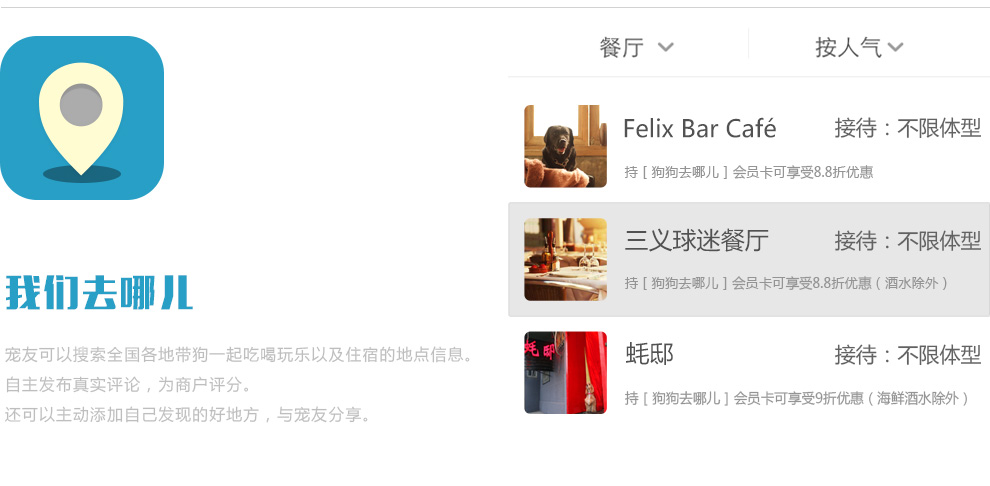
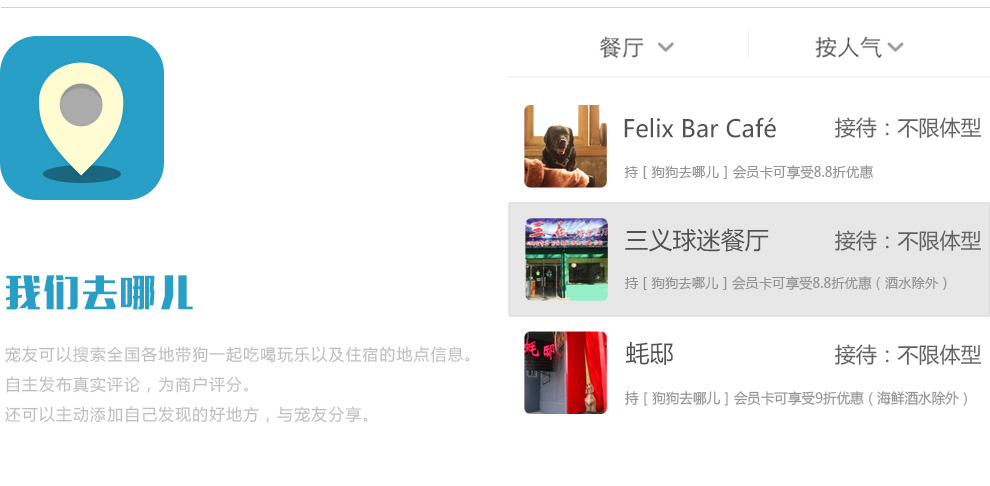
最后修改

Changed region(s): [[0.5152, 0.4321, 0.6364, 0.6173]]

diff --git a/topic.html b/topic.html
@@ -18,8 +18,8 @@
                 <li><a href="/topic.html" class="selected">专题</a></li>
                 <li><a href="/download.html">APP下载</a></li>
                 <li><a href="/vip.html">会员卡</a></li>
-                <li><a href="/shop/">电子项圈</a></li>
-                <li class="last"><a href="/forum/">论坛</a></li>
+                <li class="J_shop"><a href="/shop/">电子项圈</a></li>
+                <li class="last"><a href="/forum/forum.php">论坛</a></li>
             </ul>
             <div id="J_user" class="mod_toolbar_info hide">
                 <span id="J_userName"></span>
@@ -40,65 +40,63 @@
                     <ul class="bjqs t_cnt_list">
                         <li>
                             <div class="t_cnt_item">
-                                <a target="_blank" href="/shop/article_cat.php?id=12" class="t_cnt_img"><img src="imgs/topic/t1.jpg" alt="娱乐" /></a>
+                                <a target="_blank" href="/shop/article_cat.php?id=12" class="t_cnt_img"><img src="imgs/topic/1.png" alt="娱乐" /></a>
                                 <h3 class="t_cnt_tit">娱乐</h3>
-                                <p class="t_cnt_stit">EEE</p>
+                                <p class="t_cnt_stit">Entertainment</p>
                                 <div class="t_cnt_desc">
-                                    Lorem ipsum dolor sit amet,
-                                    consectetur adipisicing elit, sed do
-                                    eiusmod tempor incididunt.
+                                    <p>八卦 恶搞</p>
+                                    <p>以狗狗为主题的娱乐专题</p>
+                                    <p>闲聊时的调味剂</p>
                                 </div>
                             </div>
                             <div class="t_cnt_item">
-                                <a target="_blank" href="/shop/article_cat.php?id=11" class="t_cnt_img"><img src="imgs/topic/t2.jpg" alt="文化" /></a>
+                                <a target="_blank" href="/shop/article_cat.php?id=11" class="t_cnt_img"><img src="imgs/topic/2.png" alt="文化" /></a>
                                 <h3 class="t_cnt_tit">文化</h3>
-                                <p class="t_cnt_stit">EEE</p>
+                                <p class="t_cnt_stit">Culture</p>
                                 <div class="t_cnt_desc">
-                                    Lorem ipsum dolor sit amet,
-                                    consectetur adipisicing elit, sed do
-                                    eiusmod tempor incididunt.
+                                    <p>时代 海外</p>
+                                    <p>了解国内外狗狗最新资讯</p>
+                                    <p>不出国门看天下</p>
                                 </div>
                             </div>
                             <div class="t_cnt_item t_cnt_item_last">
-                                <a target="_blank" href="/shop/article_cat.php?id=13" class="t_cnt_img"><img src="imgs/topic/t3.jpg" alt="科普" /></a>
+                                <a target="_blank" href="/shop/article_cat.php?id=13" class="t_cnt_img"><img src="imgs/topic/3.png" alt="科普" /></a>
                                 <h3 class="t_cnt_tit">科普</h3>
-                                <p class="t_cnt_stit">EEE</p>
+                                <p class="t_cnt_stit">Knowledge</p>
                                 <div class="t_cnt_desc">
-                                    Lorem ipsum dolor sit amet,
-                                    consectetur adipisicing elit, sed do
-                                    eiusmod tempor incididunt.
+                                    <p>训犬 知识</p>
+                                    <p>快速了解与狗的相处之道</p>
+                                    <p>狗狗常识简单易懂</p>
                                 </div>
                             </div>
-                        </li>
-                        <li>
                             <div class="t_cnt_item">
-                                <a target="_blank" href="/shop/article_cat.php?id=14" class="t_cnt_img"><img src="imgs/topic/t4.jpg" alt="旅行" /></a>
+                                <a target="_blank" href="/shop/article_cat.php?id=14" class="t_cnt_img"><img src="imgs/topic/4.png" alt="旅行" /></a>
                                 <h3 class="t_cnt_tit">旅行</h3>
-                                <p class="t_cnt_stit">EEE</p>
+                                <p class="t_cnt_stit">Travel</p>
                                 <div class="t_cnt_desc">
-                                    Lorem ipsum dolor sit amet,
-                                    consectetur adipisicing elit, sed do
-                                    eiusmod tempor incididunt.
+                                    <p>景区 酒店</p>
+                                    <p>带狗体验回归自然的假期</p>
+                                    <p>提供全面出行攻略</p>
                                 </div>
                             </div>
                             <div class="t_cnt_item">
-                                <a target="_blank" href="/shop/article_cat.php?id=15" class="t_cnt_img"><img src="imgs/topic/t5.jpg" alt="餐厅" /></a>
+                                <a target="_blank" href="/shop/article_cat.php?id=15" class="t_cnt_img"><img src="imgs/topic/5.png" alt="餐厅" /></a>
                                 <h3 class="t_cnt_tit">餐厅</h3>
-                                <p class="t_cnt_stit">EEE</p>
+                                <p class="t_cnt_stit">Restaurant</p>
                                 <div class="t_cnt_desc">
-                                    Lorem ipsum dolor sit amet,
-                                    consectetur adipisicing elit, sed do
-                                    eiusmod tempor incididunt.
+                                    <p>吃饭 礼仪</p>
+                                    <p>开启养狗时代的新篇章</p>
+                                    <p>一大波会员折扣来袭</p>
                                 </div>
                             </div>
                             <div class="t_cnt_item t_cnt_item_last">
-                                <a target="_blank" href="/shop/article_cat.php?id=16" class="t_cnt_img"><img src="imgs/topic/t6.jpg" alt="户外" /></a>
+                                <a target="_blank" href="/shop/article_cat.php?id=16" class="t_cnt_img"><img src="imgs/topic/6.png" alt="户外" /></a>
                                 <h3 class="t_cnt_tit">户外</h3>
-                                <p class="t_cnt_stit">EEE</p>
+                                <p class="t_cnt_stit">Outdoor</p>
                                 <div class="t_cnt_desc">
-                                    Lorem ipsum dolor sit amet,
-                                    consectetur adipisicing elit, sed do
-                                    eiusmod tempor incididunt.
+                                    <p>近郊 公园</p>
+                                    <p>周末遛狗线路规划</p>
+                                    <p>组团出发 说走就走</p>
                                 </div>
                             </div>
                         </li>
@@ -123,8 +121,8 @@
                 <li><a href="/topic.html">专题</a></li>
                 <li><a href="/download.html">APP下载</a></li>
                 <li><a href="/vip.html" class="selected">会员卡</a></li>
-                <li><a href="/shop/">电子项圈</a></li>
-                <li><a href="/forum/">论坛</a></li>
+                <li class="J_shop"><a href="/shop/">电子项圈</a></li>
+                <li><a href="/forum/forum.php">论坛</a></li>
             </ul>
             <a class="mod_ft_email" href="mailto:gou_go@163.com"><span class="hide">Email</span></a>
         </div>
@@ -135,7 +133,7 @@
     <script>
         (function(){
             $('#J_slider').bjqs({
-                height      : 465,
+                height      : 1000,
                 width       : 990,
                 animduration: 900,
 //                animtype    :  'slide',

diff --git a/css/style.css b/css/style.css
@@ -67,14 +67,14 @@ a:hover{text-decoration:underline}
     .i_logo{width:440px;height:145px;background-position:-6px -162px; margin: 60px 0 0 10px; float: left; _display: inline;}
     .i_hshare{width:138px;height:54px;background-position:-209px 0; float: right; margin: 4px 15px 100px 0}
     .i_hshare a{width:68px;height:53px; display: inline-block}
-    .i_action{ width: 400px; float: right;}
+    .i_action{ width: 400px; float: right; margin-top: 126px;}
     .i_action_ico1{width:187px;height:72px; display: inline-block; background-position:-10px -5px; -webkit-transition:opactity 0.2s ease-out;}
     .i_action_ico1:hover{ opacity: 0.7;filter:alpha(opacity=70);}
     .i_action_ico2{width:187px;height:72px; display: inline-block; background-position:-10px -77px;-webkit-transition:opactity 0.2s ease-out;}
     .i_action_ico2:hover{ opacity: 0.7;filter:alpha(opacity=70);}
 
 /*banner*/
-.i_banner{ height: 697px;}
+.i_banner{ height: 697px; text-align: center}
 /*slider*/
 .i_banner .bjqs{position:relative;overflow:hidden;}
 .i_banner .bjqs_link{display: block; width: 100%; height: 697px;}
@@ -110,17 +110,20 @@ a:hover{text-decoration:underline}
 /*===== 专题页面 =====*/
 .t_logo{width:100px;height:100px;background-position: -415px -63px; margin: 6px auto;}
 /*专题slider*/
-.t_cnt{margin: 241px 0 189px 0;}
-    .t_cnt_item{ width: 200px; margin: 10px 167px 0 10px; float: left; _display: inline; text-align: center;}
+.t_cnt{margin: 110px 0 90px 0;}
+    .t_cnt_item{ width: 200px; margin: 10px 167px 73px 10px; float: left; _display: inline; text-align: center; /* padding-top: 27px; */}
     .t_cnt_item_last{margin-right: 0}
-    .t_cnt_img{ width: 200px; height: 200px; margin-bottom: 32px; display: block; opacity: 1;  -webkit-transform:rotate(0deg); -webkit-transition:all 0.2s ease-out;}
-    .t_cnt_img:hover{opacity: 0.7;filter:alpha(opacity=70);-webkit-transform:rotate(10deg);}
+    .t_cnt_img{ width: 200px; height: 200px; margin-bottom: 32px; display: block; -webkit-transform:scale(1) translateZ(0); -webkit-transition:all 0.2s ease-out;}
+    .t_cnt_img:hover{-webkit-transform:scale(1.2) translateZ(0);
+
+    }
+    /*.t_cnt_img img{-webkit-transform:translateZ(0); }*/
     .t_cnt_tit{font-size: 21px; font-weight: 700; color: #000;}
-    .t_cnt_stit{color: #888; width: 100%; text-overflow:ellipsis; overflow:hidden; white-space:nowrap; margin: 7px 0 48px 0;}
-    .t_cnt_desc{ color: #888; line-height: 22px; font-size: 16px;}
+    .t_cnt_stit{color: #888; width: 100%; text-overflow:ellipsis; overflow:hidden; white-space:nowrap; margin: 7px 0 29px 0;}
+    .t_cnt_desc{ color: #888; line-height: 33px; font-size: 16px; /* font-weight: 700; */}
 
 /*slider*/
-.t_cnt .bjqs{position:relative;overflow:hidden;}
+.t_cnt .bjqs{position:relative;/* overflow:hidden; */}
 .t_cnt .bjqs-slide{position:absolute; display:none;}
 .t_cnt .bjqs-controls{z-index:9999; position: absolute; top: -143px; left: 50%;}
 .t_cnt .bjqs-controls li a{position:absolute; width:75px;height:75px; line-height: 999em; overflow: hidden;}
@@ -236,3 +239,6 @@ a:hover{text-decoration:underline}
             .a_banner{text-align: center; margin-bottom: 50px;}
             .a_art{line-height: 22px; color: #95a5a6; margin-bottom: 30px;}
             .a_tit{font-size: 30px; text-align: center; color: #000; margin-bottom: 30px;}
+
+            .J_shop{display: none;}
+            .mod_ft_email{display: none;}

diff --git a/download.html b/download.html
@@ -18,7 +18,7 @@
                 <li><a href="/topic.html">专题</a></li>
                 <li><a href="/download.html" class="selected">APP下载</a></li>
                 <li><a href="/vip.html">会员卡</a></li>
-                <li><a href="/shop/">电子项圈</a></li>
+                <li class="J_shop"><a href="/shop/">电子项圈</a></li>
                 <li><a href="/forum/forum.php">论坛</a></li>
             </ul>
             <div id="J_user" class="mod_toolbar_info hide">
@@ -38,7 +38,8 @@
             <div class="d_banner_1"></div>
             <div class="d_banner_2">
                 <div class="grid_c1">
-                    <a class="d_banner_down" href="##"><span class="hide">立即下载</span></a>
+                    <a class="d_banner_down" target="_blank" href="https://itunes.apple.com/cn/app/gou-gou-qu-na-er/id880641122?mt=8
+"><span class="hide">立即下载</span></a>
                     <div class="d_banner_txt">
                         <p>版本：1.0</p>
                         <p>更新日期：2014/6/6</p>
@@ -151,8 +152,8 @@
                 <li><a href="/topic.html">专题</a></li>
                 <li><a href="/download.html">APP下载</a></li>
                 <li><a href="/vip.html" class="selected">会员卡</a></li>
-                <li><a href="/shop/">电子项圈</a></li>
-                <li><a href="/forum/">论坛</a></li>
+                <li class="J_shop"><a href="/shop/">电子项圈</a></li>
+                <li><a href="/forum/forum.php">论坛</a></li>
             </ul>
             <a class="mod_ft_email" href="mailto:gou_go@163.com"><span class="hide">Email</span></a>
         </div>

diff --git a/vip3.html b/vip3.html
@@ -18,8 +18,8 @@
                 <li><a href="/topic.html">专题</a></li>
                 <li><a href="/download.html">APP下载</a></li>
                 <li><a href="/vip.html" class="selected">会员卡</a></li>
-                <li><a href="/shop/">电子项圈</a></li>
-                <li class="last"><a href="/forum/">论坛</a></li>
+                <li class="J_shop"><a href="/shop/">电子项圈</a></li>
+                <li class="last"><a href="/forum/forum.php">论坛</a></li>
             </ul>
             <div id="J_user" class="mod_toolbar_info hide">
                 <span id="J_userName"></span>
@@ -64,7 +64,7 @@
             <b class="v_cnt_hr"></b>
         </div>
         <div class="v_imgs">
-            <img src="imgs/vip/3.jpg" alt=""/>
+            <img src="imgs/vip/6.jpg" alt=""/>
         </div>
     </div>
     <div class="mod_ft">
@@ -75,8 +75,8 @@
                 <li><a href="/topic.html">专题</a></li>
                 <li><a href="/download.html">APP下载</a></li>
                 <li><a href="/vip.html" class="selected">会员卡</a></li>
-                <li><a href="/shop/">电子项圈</a></li>
-                <li><a href="/forum/">论坛</a></li>
+                <li class="J_shop"><a href="/shop/">电子项圈</a></li>
+                <li><a href="/forum/forum.php">论坛</a></li>
             </ul>
             <a class="mod_ft_email" href="mailto:gou_go@163.com"><span class="hide">Email</span></a>
         </div>

diff --git a/vip.html b/vip.html
@@ -18,7 +18,7 @@
                 <li><a href="/topic.html">专题</a></li>
                 <li><a href="/download.html">APP下载</a></li>
                 <li><a href="/vip.html" class="selected">会员卡</a></li>
-                <li><a href="/shop/">电子项圈</a></li>
+                <li class="J_shop"><a href="/shop/">电子项圈</a></li>
                 <li><a href="/forum/forum.php">论坛</a></li>
             </ul>
             <div id="J_user" class="mod_toolbar_info hide">
@@ -49,11 +49,12 @@
         <div class="grid_c1">
             <b class="mod_ft_logo"></b>
             <ul class="mod_ft_list clear">
-                <li><a href="index.html">主页</a></li>
-                <li><a href="forum/forum.php">论坛入口</a></li>
-                <li><a href="download.html">APP下载</a></li>
-                <li><a href="vip.html">会员卡</a></li>
-                <li><a href="/shop/">电子项圈</a></li>
+                <li><a href="index.html">首页</a></li>
+                <li><a href="/topic.html">专题</a></li>
+                <li><a href="/download.html">APP下载</a></li>
+                <li><a href="/vip.html" class="selected">会员卡</a></li>
+                <li class="J_shop"><a href="/shop/">电子项圈</a></li>
+                <li><a href="/forum/forum.php">论坛</a></li>
             </ul>
             <a class="mod_ft_email" href="##"><span class="hide">Email</span></a>
         </div>

diff --git a/vip1.html b/vip1.html
@@ -18,8 +18,8 @@
                 <li><a href="/topic.html">专题</a></li>
                 <li><a href="/download.html">APP下载</a></li>
                 <li><a href="/vip.html" class="selected">会员卡</a></li>
-                <li><a href="/shop/">电子项圈</a></li>
-                <li class="last"><a href="/forum/">论坛</a></li>
+                <li class="J_shop"><a href="/shop/">电子项圈</a></li>
+                <li class="last"><a href="/forum/forum.php">论坛</a></li>
             </ul>
             <div id="J_user" class="mod_toolbar_info hide">
                 <span id="J_userName"></span>
@@ -80,8 +80,8 @@
                 <li><a href="/topic.html">专题</a></li>
                 <li><a href="/download.html">APP下载</a></li>
                 <li><a href="/vip.html" class="selected">会员卡</a></li>
-                <li><a href="/shop/">电子项圈</a></li>
-                <li><a href="/forum/">论坛</a></li>
+                <li class="J_shop"><a href="/shop/">电子项圈</a></li>
+                <li><a href="/forum/forum.php">论坛</a></li>
             </ul>
             <a class="mod_ft_email" href="mailto:gou_go@163.com"><span class="hide">Email</span></a>
         </div>

diff --git a/vip2.html b/vip2.html
@@ -18,8 +18,8 @@
                 <li><a href="/topic.html">专题</a></li>
                 <li><a href="/download.html">APP下载</a></li>
                 <li><a href="/vip.html" class="selected">会员卡</a></li>
-                <li><a href="/shop/">电子项圈</a></li>
-                <li class="last"><a href="/forum/">论坛</a></li>
+                <li class="J_shop"><a href="/shop/">电子项圈</a></li>
+                <li class="last"><a href="/forum/forum.php">论坛</a></li>
             </ul>
             <div id="J_user" class="mod_toolbar_info hide">
                 <span id="J_userName"></span>
@@ -59,8 +59,8 @@
                 <li><a href="/topic.html">专题</a></li>
                 <li><a href="/download.html">APP下载</a></li>
                 <li><a href="/vip.html" class="selected">会员卡</a></li>
-                <li><a href="/shop/">电子项圈</a></li>
-                <li><a href="/forum/">论坛</a></li>
+                <li class="J_shop"><a href="/shop/">电子项圈</a></li>
+                <li><a href="/forum/forum.php">论坛</a></li>
             </ul>
             <a class="mod_ft_email" href="mailto:gou_go@163.com"><span class="hide">Email</span></a>
         </div>

diff --git a/shop/themes/ecmoban_yiguo/style.css b/shop/themes/ecmoban_yiguo/style.css
@@ -1022,7 +1022,7 @@ opacity: 0.7;
 .mod_toolbar_nocar{width: auto;}
 
 .mod_ft{height: 115px; padding-top: 20px; background: #bbe7e4;}
-.mod_ft_logo{width:103px;height:103px; display: block; float: left; background-position:-483px -201px;}
+.mod_ft_logo{width:103px;height:103px; display: none; float: left; background-position:-483px -201px;}
 .mod_ft_list{padding: 36px 0 0 45px;float: left;}
 .mod_ft_list li{ float: left; margin-right: 100px; font-size: 14px;}
 .mod_ft_list a{font-weight: 700;}

diff --git a/shop/themes/ecmoban_yiguo/library/style.css b/shop/themes/ecmoban_yiguo/library/style.css
@@ -985,8 +985,5 @@ opacity: 0.7;
 
 
 .ecmoban{ font-size:0}
- 
-
-
-
+ .mod_ft_email{ display: none;}
 
